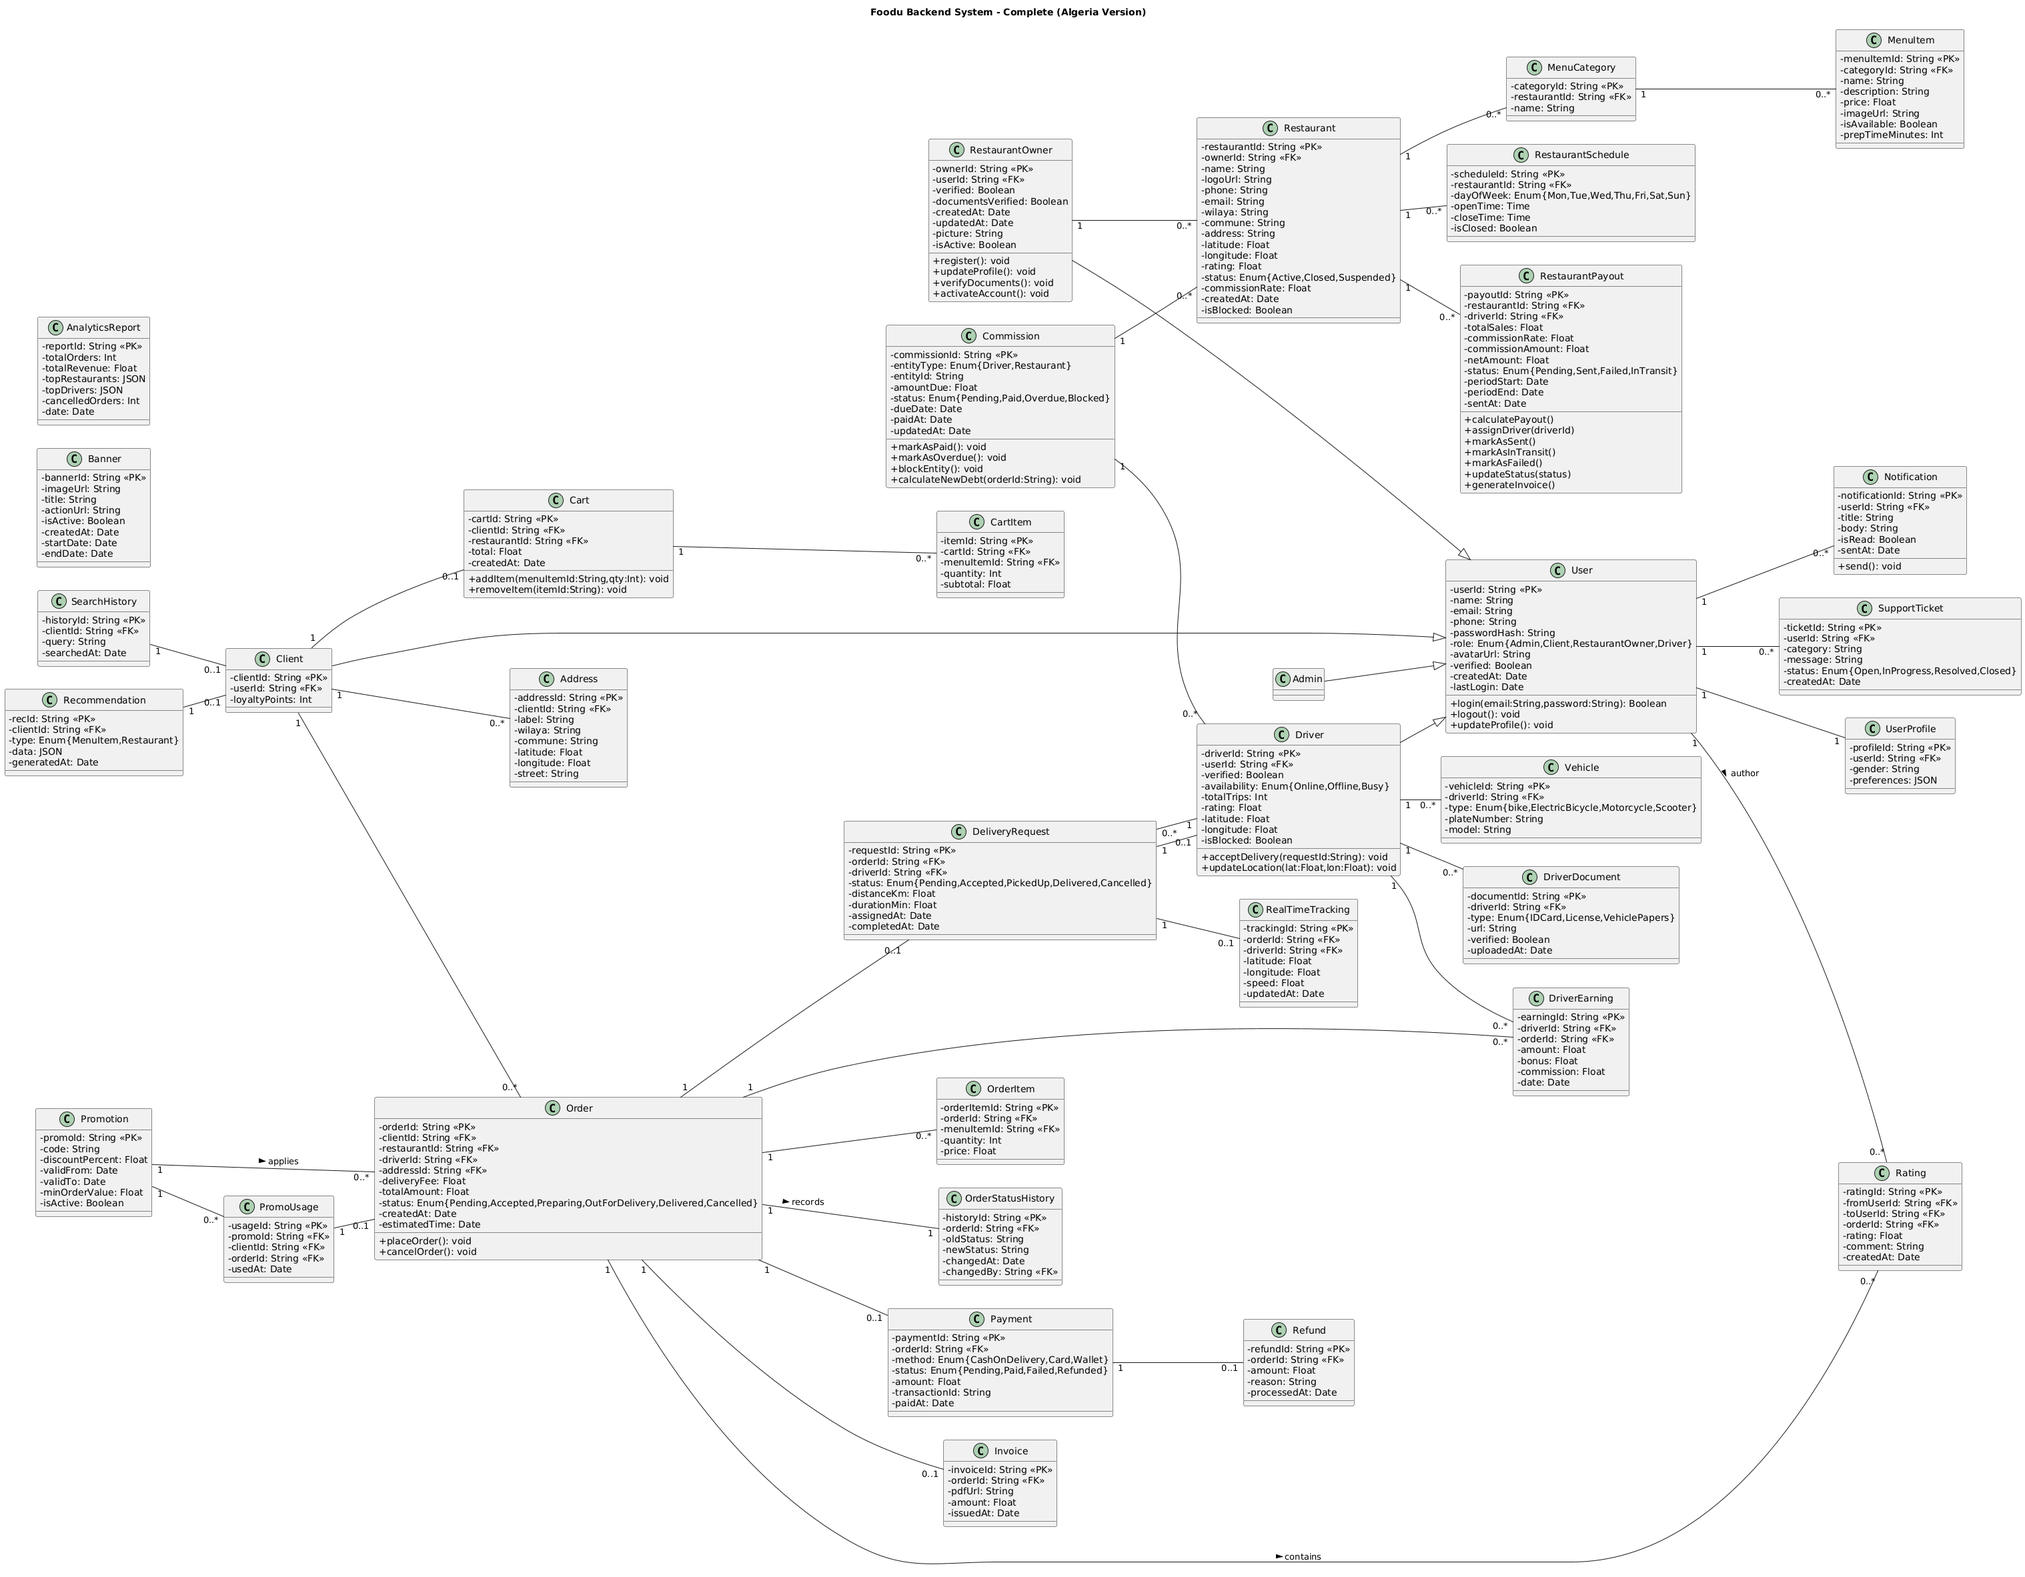
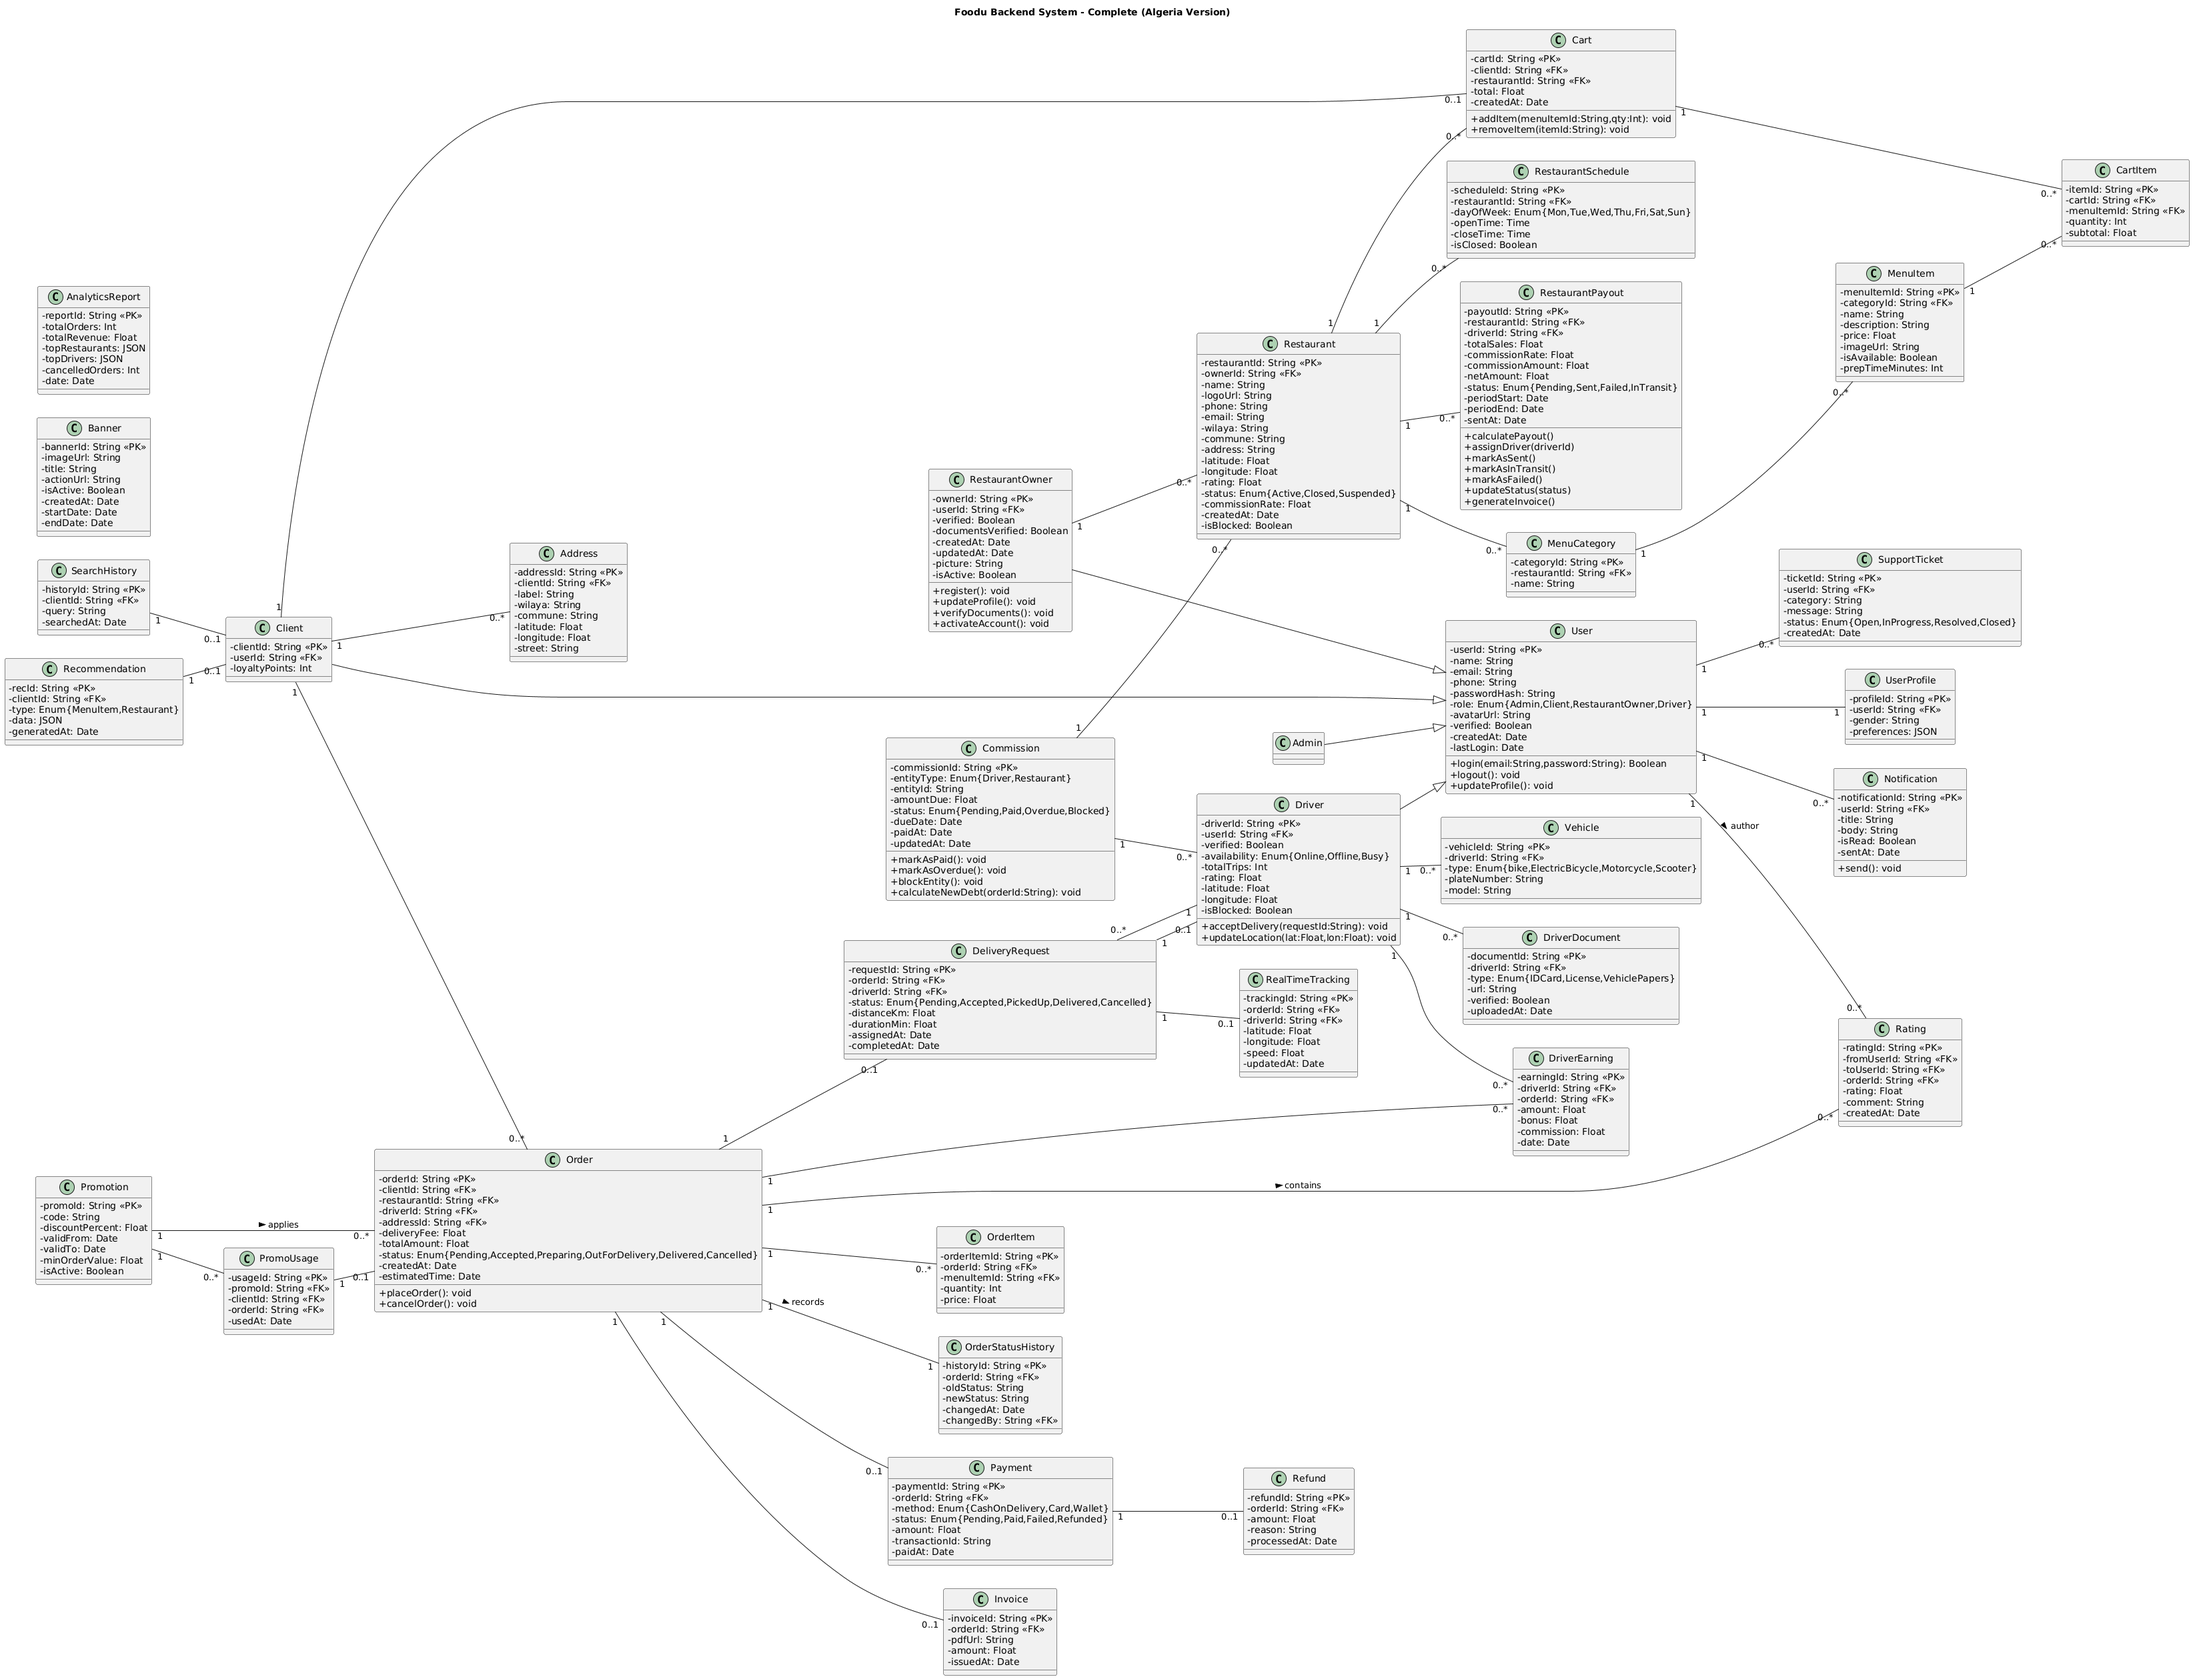
feat(cart): add cart and cartItem modules with migrations, models, controllers, routes, and validators
- Added cart table migration (20251124092910_cart.js)
- Added cartItem table migration (20251124103924_cart_item.js)
- Implemented cart controller and cartItem controller
- Added cart and cartItem models
- Added API routes for cart and cartItem
- Updated mount_router.js to include new routes
- Added validation schemas for cart and cartItem
- Updated UML diagram (Foodu.puml) and documentation image (docs.png)

diff --git a/utils/validator/cart_validator.js b/utils/validator/cart_validator.js
@@ -1,0 +1,104 @@
+const { check } = require("express-validator");
+const db = require("../../config/db");
+const ErrorAPI = require("../../utils/ErrorAppi");
+const { runValidation } = require("../../middlewares/validatorMiddleware");
+
+exports.createCartValidator = [
+  check("clientId")
+    .notEmpty()
+    .withMessage("clientId is required")
+    .isInt({ gt: 0 })
+    .withMessage("clientId must be a valid integer")
+    .bail()
+    .custom(async (value) => {
+      const client = await db("client").where({ id: value }).first();
+      if (!client) throw new ErrorAPI("Client does not exist", 404);
+      return true;
+    }),
+
+  check("restaurantId")
+    .notEmpty()
+    .withMessage("restaurantId is required")
+    .isInt({ gt: 0 })
+    .withMessage("restaurantId must be a valid integer")
+    .bail()
+    .custom(async (value) => {
+      const restaurant = await db("restaurant").where({ id: value }).first();
+      if (!restaurant) throw new ErrorAPI("Restaurant does not exist", 404);
+      return true;
+    }),
+
+  check("total")
+    .optional()
+    .isFloat({ min: 0 })
+    .withMessage("total must be a positive number"),
+
+  runValidation,
+];
+
+exports.updateCartValidator = [
+  check("id")
+    .notEmpty()
+    .withMessage("Cart ID is required")
+    .isInt()
+    .withMessage("Cart ID must be an integer")
+    .bail()
+    .custom(async (value) => {
+      const cart = await db("cart").where({ id: value }).first();
+      if (!cart) throw new ErrorAPI("Cart not found", 404);
+      return true;
+    }),
+
+  check("clientId")
+    .optional()
+    .isInt({ gt: 0 })
+    .withMessage("clientId must be a valid integer")
+    .custom(async (value) => {
+      if (!value) return true;
+      const client = await db("client").where({ id: value }).first();
+      if (!client) throw new ErrorAPI("Client does not exist", 404);
+      return true;
+    }),
+
+  check("restaurantId")
+    .optional()
+    .isInt({ gt: 0 })
+    .withMessage("restaurantId must be a valid integer")
+    .custom(async (value) => {
+      if (!value) return true;
+      const restaurant = await db("restaurant").where({ id: value }).first();
+      if (!restaurant) throw new ErrorAPI("Restaurant does not exist", 404);
+      return true;
+    }),
+
+  check("total")
+    .optional()
+    .isFloat({ min: 0 })
+    .withMessage("total must be a positive number"),
+
+  runValidation,
+];
+
+exports.getCartByIdValidator = [
+  check("id")
+    .notEmpty()
+    .withMessage("Cart ID is required")
+    .isInt()
+    .withMessage("Cart ID must be an integer"),
+  runValidation,
+];
+
+exports.deleteCartValidator = [
+  check("id")
+    .notEmpty()
+    .withMessage("Cart ID is required")
+    .isInt()
+    .withMessage("Cart ID must be an integer")
+    .bail()
+    .custom(async (value) => {
+      const cart = await db("cart").where({ id: value }).first();
+      if (!cart) throw new ErrorAPI("Cart not found", 404);
+      return true;
+    }),
+  runValidation,
+];

diff --git a/utils/validator/cartItem_validator.js b/utils/validator/cartItem_validator.js
@@ -1,0 +1,90 @@
+const { check } = require("express-validator");
+const db = require("../../config/db");
+const ErrorAPI = require("../../utils/ErrorAppi");
+const { runValidation } = require("../../middlewares/validatorMiddleware");
+
+exports.createCartItemValidator = [
+  check("cartId")
+    .notEmpty()
+    .withMessage("cartId is required")
+    .isInt({ gt: 0 })
+    .withMessage("cartId must be a valid integer")
+    .bail()
+    .custom(async (value) => {
+      const cart = await db("cart").where({ id: value }).first();
+      if (!cart) throw new ErrorAPI("Cart not found", 404);
+      return true;
+    }),
+
+  check("menuItemId")
+    .notEmpty()
+    .withMessage("menuItemId is required")
+    .isInt({ gt: 0 })
+    .withMessage("menuItemId must be a valid integer")
+    .bail()
+    .custom(async (value) => {
+      const menu = await db("menuItem").where({ id: value }).first();
+      if (!menu) throw new ErrorAPI("Menu item not found", 404);
+      return true;
+    }),
+
+  check("quantity")
+    .notEmpty()
+    .withMessage("quantity is required")
+    .isInt({ gt: 0 })
+    .withMessage("quantity must be a positive integer"),
+
+  check("subtotal")
+    .notEmpty()
+    .withMessage("subtotal is required")
+    .isFloat({ gt: 0 })
+    .withMessage("subtotal must be a positive number"),
+
+  runValidation,
+];
+
+exports.updateCartItemValidator = [
+  check("id")
+    .notEmpty()
+    .withMessage("cartItem ID is required")
+    .bail()
+    .custom(async (value) => {
+      const item = await db("cartItem").where({ id: value }).first();
+      if (!item) throw new ErrorAPI("Cart item not found", 404);
+      return true;
+    }),
+
+  check("quantity")
+    .optional()
+    .isInt({ gt: 0 })
+    .withMessage("quantity must be a positive integer"),
+
+  check("subtotal")
+    .optional()
+    .isFloat({ gt: 0 })
+    .withMessage("subtotal must be a positive number"),
+
+  runValidation,
+];
+
+exports.getCartItemByIdValidator = [
+  check("id")
+    .notEmpty()
+    .withMessage("cartItem ID is required")
+    .isInt()
+    .withMessage("cartItem ID must be an integer"),
+  runValidation,
+];
+
+exports.deleteCartItemValidator = [
+  check("id")
+    .notEmpty()
+    .withMessage("cartItem ID is required")
+    .bail()
+    .custom(async (value) => {
+      const item = await db("cartItem").where({ id: value }).first();
+      if (!item) throw new ErrorAPI("Cart item not found", 404);
+      return true;
+    }),
+  runValidation,
+];

diff --git a/config/migrations/20251124103924_cart_item.js b/config/migrations/20251124103924_cart_item.js
@@ -1,0 +1,34 @@
+/**
+ * @param { import("knex").Knex } knex
+ * @returns { Promise<void> }
+ */
+exports.up = function (knex) {
+  return knex.schema.createTable("cartItem", function (table) {
+    table.increments("id").primary();
+    table.integer("cartId").unsigned().notNullable();
+    table.integer("menuItemId").unsigned().notNullable();
+    table.integer("quantity").unsigned().notNullable().defaultTo(1);
+    table.float("subtotal").notNullable().defaultTo(0.0);
+    table.timestamp("createdAt").defaultTo(knex.fn.now());
+    table.timestamp("updatedAt").defaultTo(knex.fn.now());
+    table
+      .foreign("cartId")
+      .references("id")
+      .inTable("cart")
+      .onDelete("CASCADE");
+
+    table
+      .foreign("menuItemId")
+      .references("id")
+      .inTable("menuItem")
+      .onDelete("CASCADE");
+  });
+};
+
+/**
+ * @param { import("knex").Knex } knex
+ * @returns { Promise<void> }
+ */
+exports.down = function (knex) {
+  return knex.schema.dropTableIfExists("cartItem");
+};

diff --git a/config/migrations/20251124092910_cart.js b/config/migrations/20251124092910_cart.js
@@ -1,0 +1,32 @@
+/**
+ * @param { import("knex").Knex } knex
+ * @returns { Promise<void> }
+ */
+exports.up = function (knex) {
+  return knex.schema.createTable("cart", function (table) {
+    table.increments("id").primary();
+    table.integer("clientId").unsigned().notNullable();
+    table.integer("restaurantId").unsigned().notNullable();
+    table.float("total").notNullable().defaultTo(0.0);
+    table.timestamp("createdAt").defaultTo(knex.fn.now());
+    table.timestamp("updatedAt").defaultTo(knex.fn.now());
+    table
+      .foreign("clientId")
+      .references("id")
+      .inTable("client")
+      .onDelete("CASCADE");
+    table
+      .foreign("restaurantId")
+      .references("id")
+      .inTable("restaurant")
+      .onDelete("CASCADE");
+  });
+};
+
+/**
+ * @param { import("knex").Knex } knex
+ * @returns { Promise<void> }
+ */
+exports.down = function (knex) {
+  return knex.schema.dropTableIfExists("cart");
+};

diff --git a/routes/cartItem_route.js b/routes/cartItem_route.js
@@ -1,0 +1,27 @@
+const express = require("express");
+const router = express.Router();
+const {
+  createCartItem,
+  getAllCartItem,
+  getCartItemById,
+  updateCartItem,
+  deleteCartItem,
+} = require("../controllers/cartItem_controller");
+const {
+  createCartItemValidator,
+  getCartItemByIdValidator,
+  updateCartItemValidator,
+  deleteCartItemValidator,
+} = require("../utils/validator/cartItem_validator");
+
+router
+  .route("/")
+  .post(createCartItemValidator, createCartItem)
+  .get(getAllCartItem);
+router
+  .route("/id/:id")
+  .get(getCartItemByIdValidator, getCartItemById)
+  .put(updateCartItemValidator, updateCartItem)
+  .delete(deleteCartItemValidator, deleteCartItem);
+
+module.exports = router;

diff --git a/routes/cart_route.js b/routes/cart_route.js
@@ -1,0 +1,24 @@
+const express = require("express");
+const router = express.Router();
+const {
+  createCart,
+  getAllCart,
+  getCartById,
+  updateCart,
+  deleteCart,
+} = require("../controllers/cart_controller");
+const {
+  createCartValidator,
+  getCartByIdValidator,
+  updateCartValidator,
+  deleteCartValidator,
+} = require("../utils/validator/cart_validator");
+
+router.route("/").post(createCartValidator, createCart).get(getAllCart);
+router
+  .route("/id/:id")
+  .get(getCartByIdValidator, getCartById)
+  .put(updateCartValidator, updateCart)
+  .delete(deleteCartValidator, deleteCart);
+
+module.exports = router;

diff --git a/controllers/cartItem_controller.js b/controllers/cartItem_controller.js
@@ -1,0 +1,22 @@
+const CartItemItemModel = require("../models/cartItem_model");
+const {
+  createOne,
+  deleteOne,
+  updateOne,
+  getAll,
+  getOne,
+} = require("./factory_handler");
+
+const createCartItem = createOne(CartItemItemModel, "CartItem");
+const getAllCartItem = getAll(CartItemItemModel, "CartItem");
+const getCartItemById = getOne(CartItemItemModel, "CartItem");
+const updateCartItem = updateOne(CartItemItemModel, "CartItem");
+const deleteCartItem = deleteOne(CartItemItemModel, "CartItem");
+
+module.exports = {
+  createCartItem,
+  getAllCartItem,
+  getCartItemById,
+  updateCartItem,
+  deleteCartItem,
+};

diff --git a/controllers/cart_controller.js b/controllers/cart_controller.js
@@ -1,0 +1,22 @@
+const cartModel = require("../models/cart_model");
+const {
+  createOne,
+  deleteOne,
+  updateOne,
+  getAll,
+  getOne,
+} = require("./factory_handler");
+
+const createCart = createOne(cartModel, "Cart");
+const getAllCart = getAll(cartModel, "Cart");
+const getCartById = getOne(cartModel, "Cart");
+const updateCart = updateOne(cartModel, "Cart");
+const deleteCart = deleteOne(cartModel, "Cart");
+
+module.exports = {
+  createCart,
+  getAllCart,
+  getCartById,
+  updateCart,
+  deleteCart,
+};

diff --git a/routes/mount_router.js b/routes/mount_router.js
@@ -15,6 +15,8 @@ const mountRoutes = (app) => {
   app.use("/api/v1/menuItem", require("./menuItem_route"));
   app.use("/api/v1/commission", require("./commission_route"));
   app.use("/api/v1/notification", require("./notification_route"));
+  app.use("/api/v1/cart", require("./cart_route"));
+  app.use("/api/v1/cartItem", require("./cartItem_route"));
 };
 
 module.exports = mountRoutes;

diff --git a/models/cartItem_model.js b/models/cartItem_model.js
@@ -1,0 +1,9 @@
+const BaseModel = require("./base_model");
+
+class cartItemModel extends BaseModel {
+  constructor() {
+    super("cartItem");
+  }
+}
+
+module.exports = new cartItemModel();

diff --git a/models/cart_model.js b/models/cart_model.js
@@ -1,0 +1,9 @@
+const BaseModel = require("./base_model");
+
+class cartModel extends BaseModel {
+  constructor() {
+    super("cart");
+  }
+}
+
+module.exports = new cartModel();
